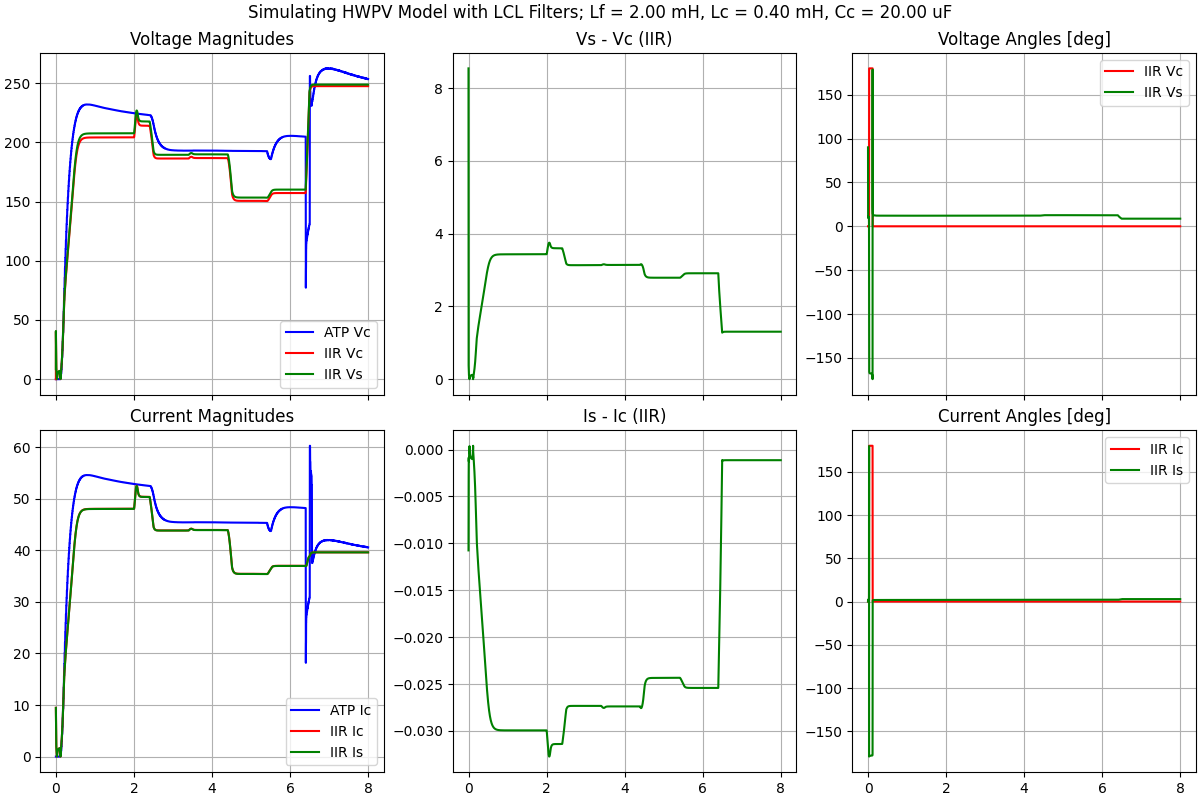
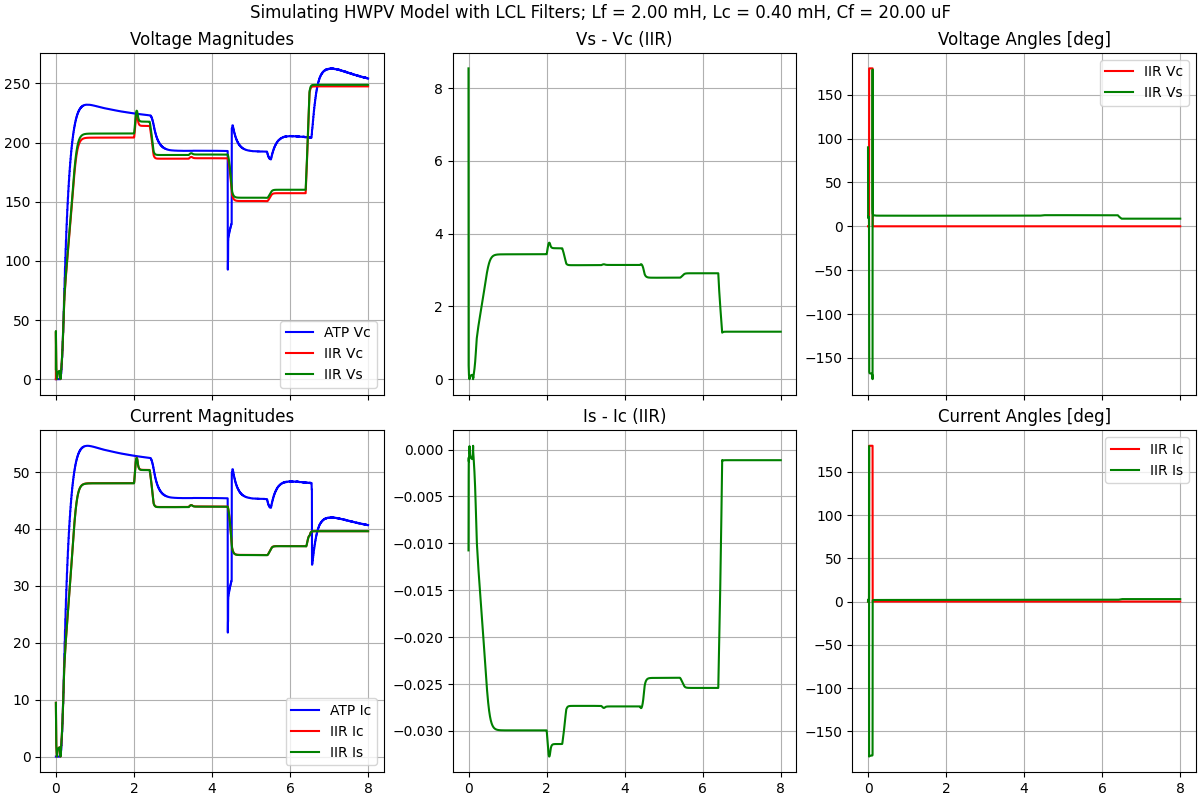
correcting Fc start time in ATP

diff --git a/examples/hwpv/pv1_import.py b/examples/hwpv/pv1_import.py
@@ -138,11 +138,19 @@ if __name__ == '__main__':
         atp_idc = np.zeros(dlen)
         atp_irms = np.zeros(dlen)
         atp_vrms = np.zeros(dlen)
+        atp_fc = np.zeros(dlen)
+        atp_ud = np.zeros(dlen)
+        atp_G = np.zeros(dlen)
+        atp_T = np.zeros(dlen)
         grp['t'].read_direct (atp_t)
         grp['Vdc'].read_direct (atp_vdc)
         grp['Idc'].read_direct (atp_idc)
         grp['Irms'].read_direct (atp_irms)
         grp['Vrms'].read_direct (atp_vrms)
+        grp['Fc'].read_direct (atp_fc)
+        grp['Ud'].read_direct (atp_ud)
+        grp['G'].read_direct (atp_G)
+        grp['T'].read_direct (atp_T)
         print (atp_vdc.shape[::5], plt_vdc.shape)
         rmse_vdc = dynonet.metrics.error_rmse(atp_vdc[::5], plt_vdc)
         rmse_idc = dynonet.metrics.error_rmse(atp_idc[::5], plt_idc)
@@ -159,11 +167,17 @@ if __name__ == '__main__':
   ax[0,0].set_title ('Weather')
   ax[0,0].plot (plt_t, plt_g, label='G')
   ax[0,0].plot (plt_t, 10.0*plt_T, label='10*T')
+  if do_atp:
+    ax[0,0].plot (atp_t, atp_G, label='ATP G')
+    ax[0,0].plot (atp_t, 10.0*atp_T, label='ATP T')
   ax[0,0].legend(loc='best')
   ax[0,1].set_title ('Control')
   ax[0,1].plot (plt_t, plt_ctl, label='Mode')
   ax[0,1].plot (plt_t, plt_Fc, label='F[pu]')
   ax[0,1].plot (plt_t, plt_Ud, label='Ud[pu]')
+  if do_atp:
+    ax[0,1].plot (atp_t, atp_fc/60.0, label='ATP Fc')
+    ax[0,1].plot (atp_t, atp_ud, label='ATP Ud')
   ax[0,1].legend(loc='best')
   ax[0,2].set_title ('Rload')
   ax[0,2].plot (plt_t, plt_rg)

diff --git a/README.md b/README.md
@@ -59,9 +59,9 @@ responsible for differences in the ATP and IIR output variables, _Vdc_, _Idc_, a
 
 | Variable | RMSE  |  Mean  |  Rel. Error |
 |:---      |   ---:|    ---:|         ---:|
-|Vdc  | 33.1230 | 365.5493 | 9.06%| 
-|Idc  | 0.4016  | 27.1984  | 1.48%| 
-|Irms | 6.3669  | 45.4824  | 14.00%|
+|Vdc  | 34.4120 | 365.9086 | 9.40%| 
+|Idc  | 0.4247  | 27.2002  | 1.56%| 
+|Irms | 6.5667  | 45.5142  | 14.43%|
  
 Notes to investigate:
 
